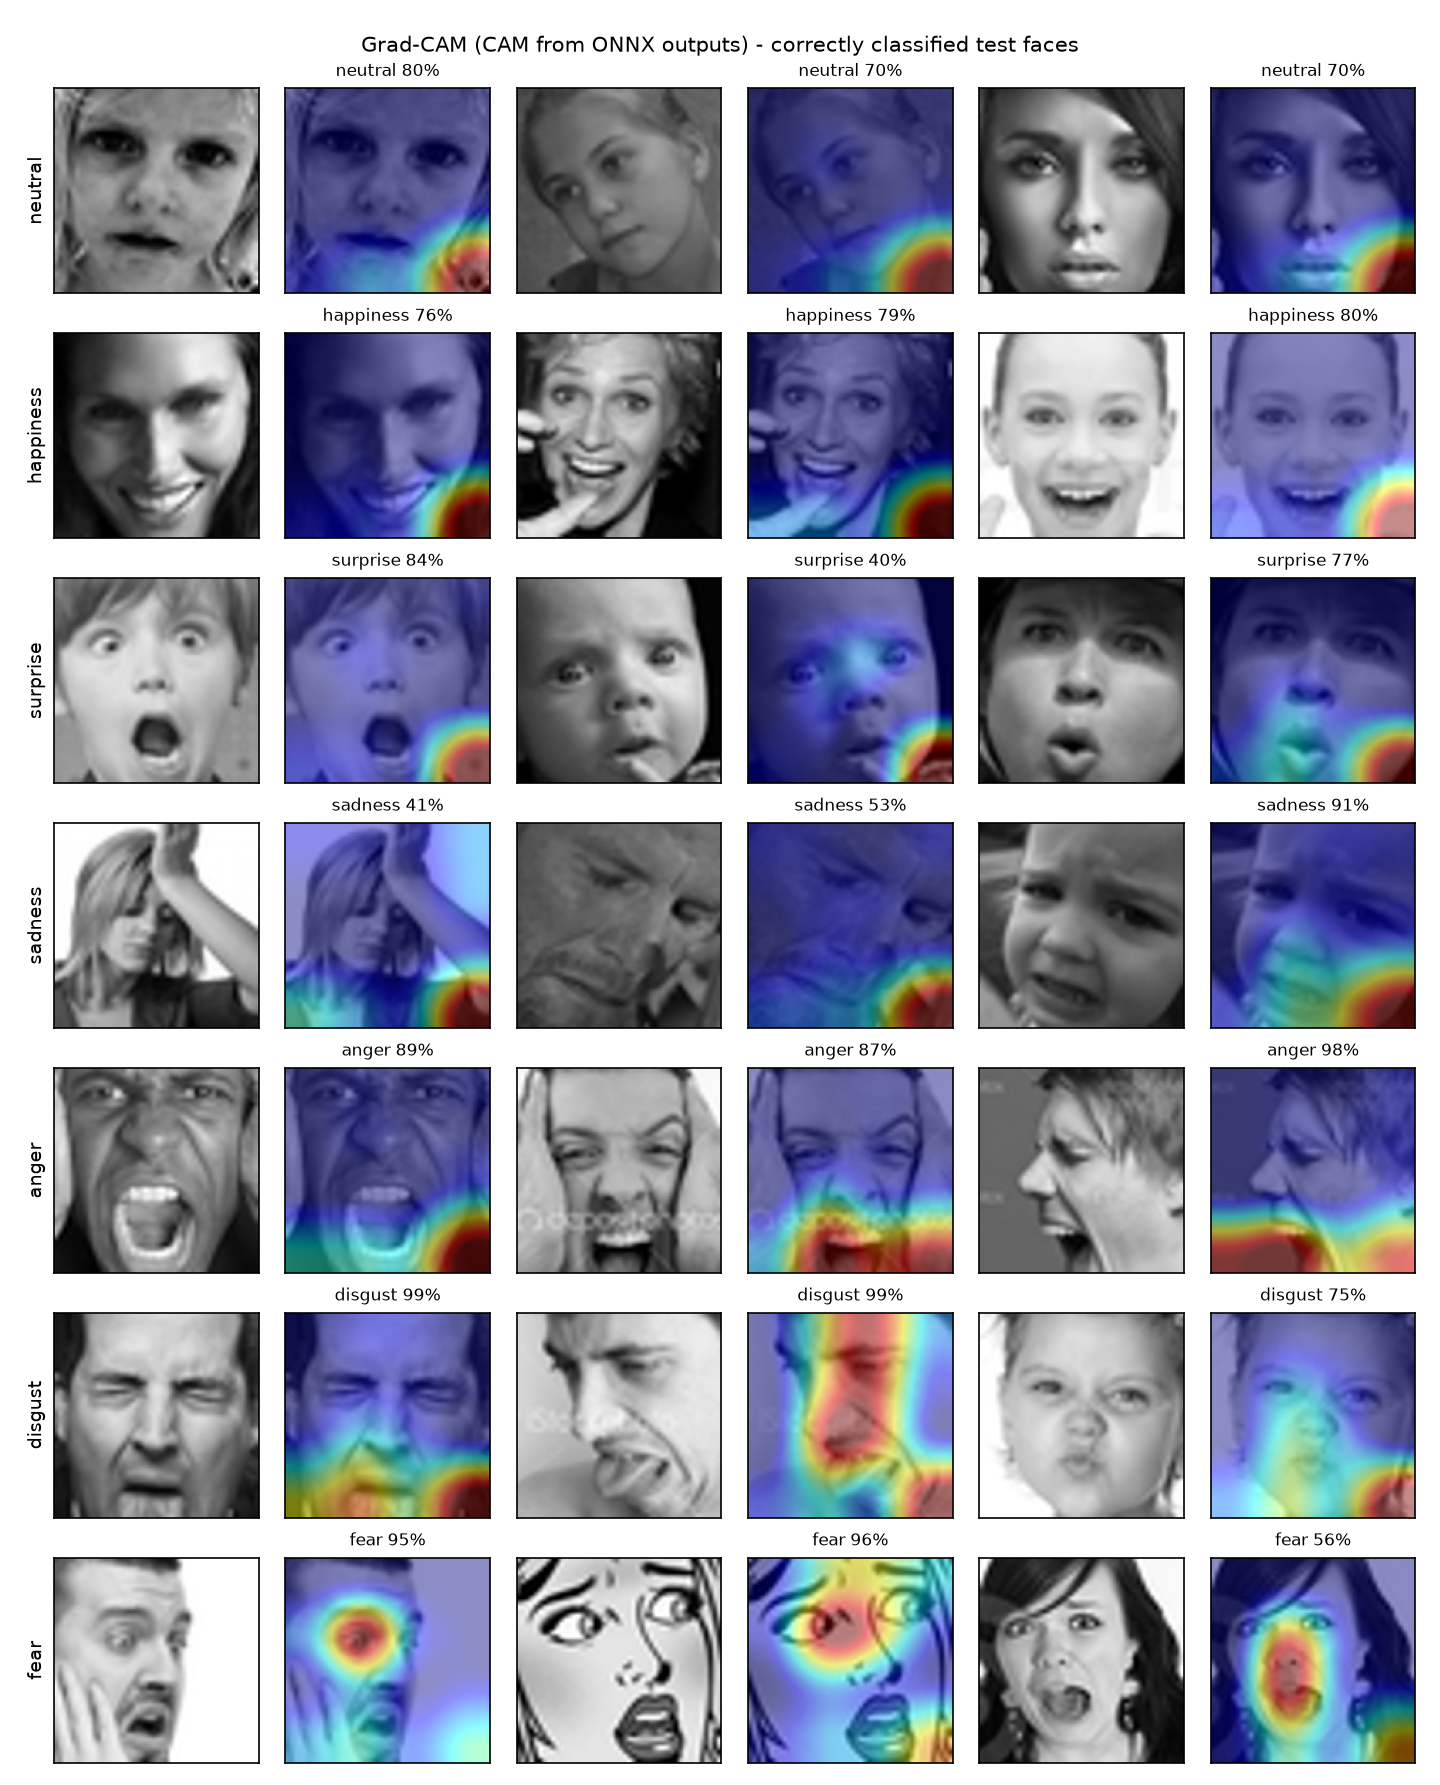
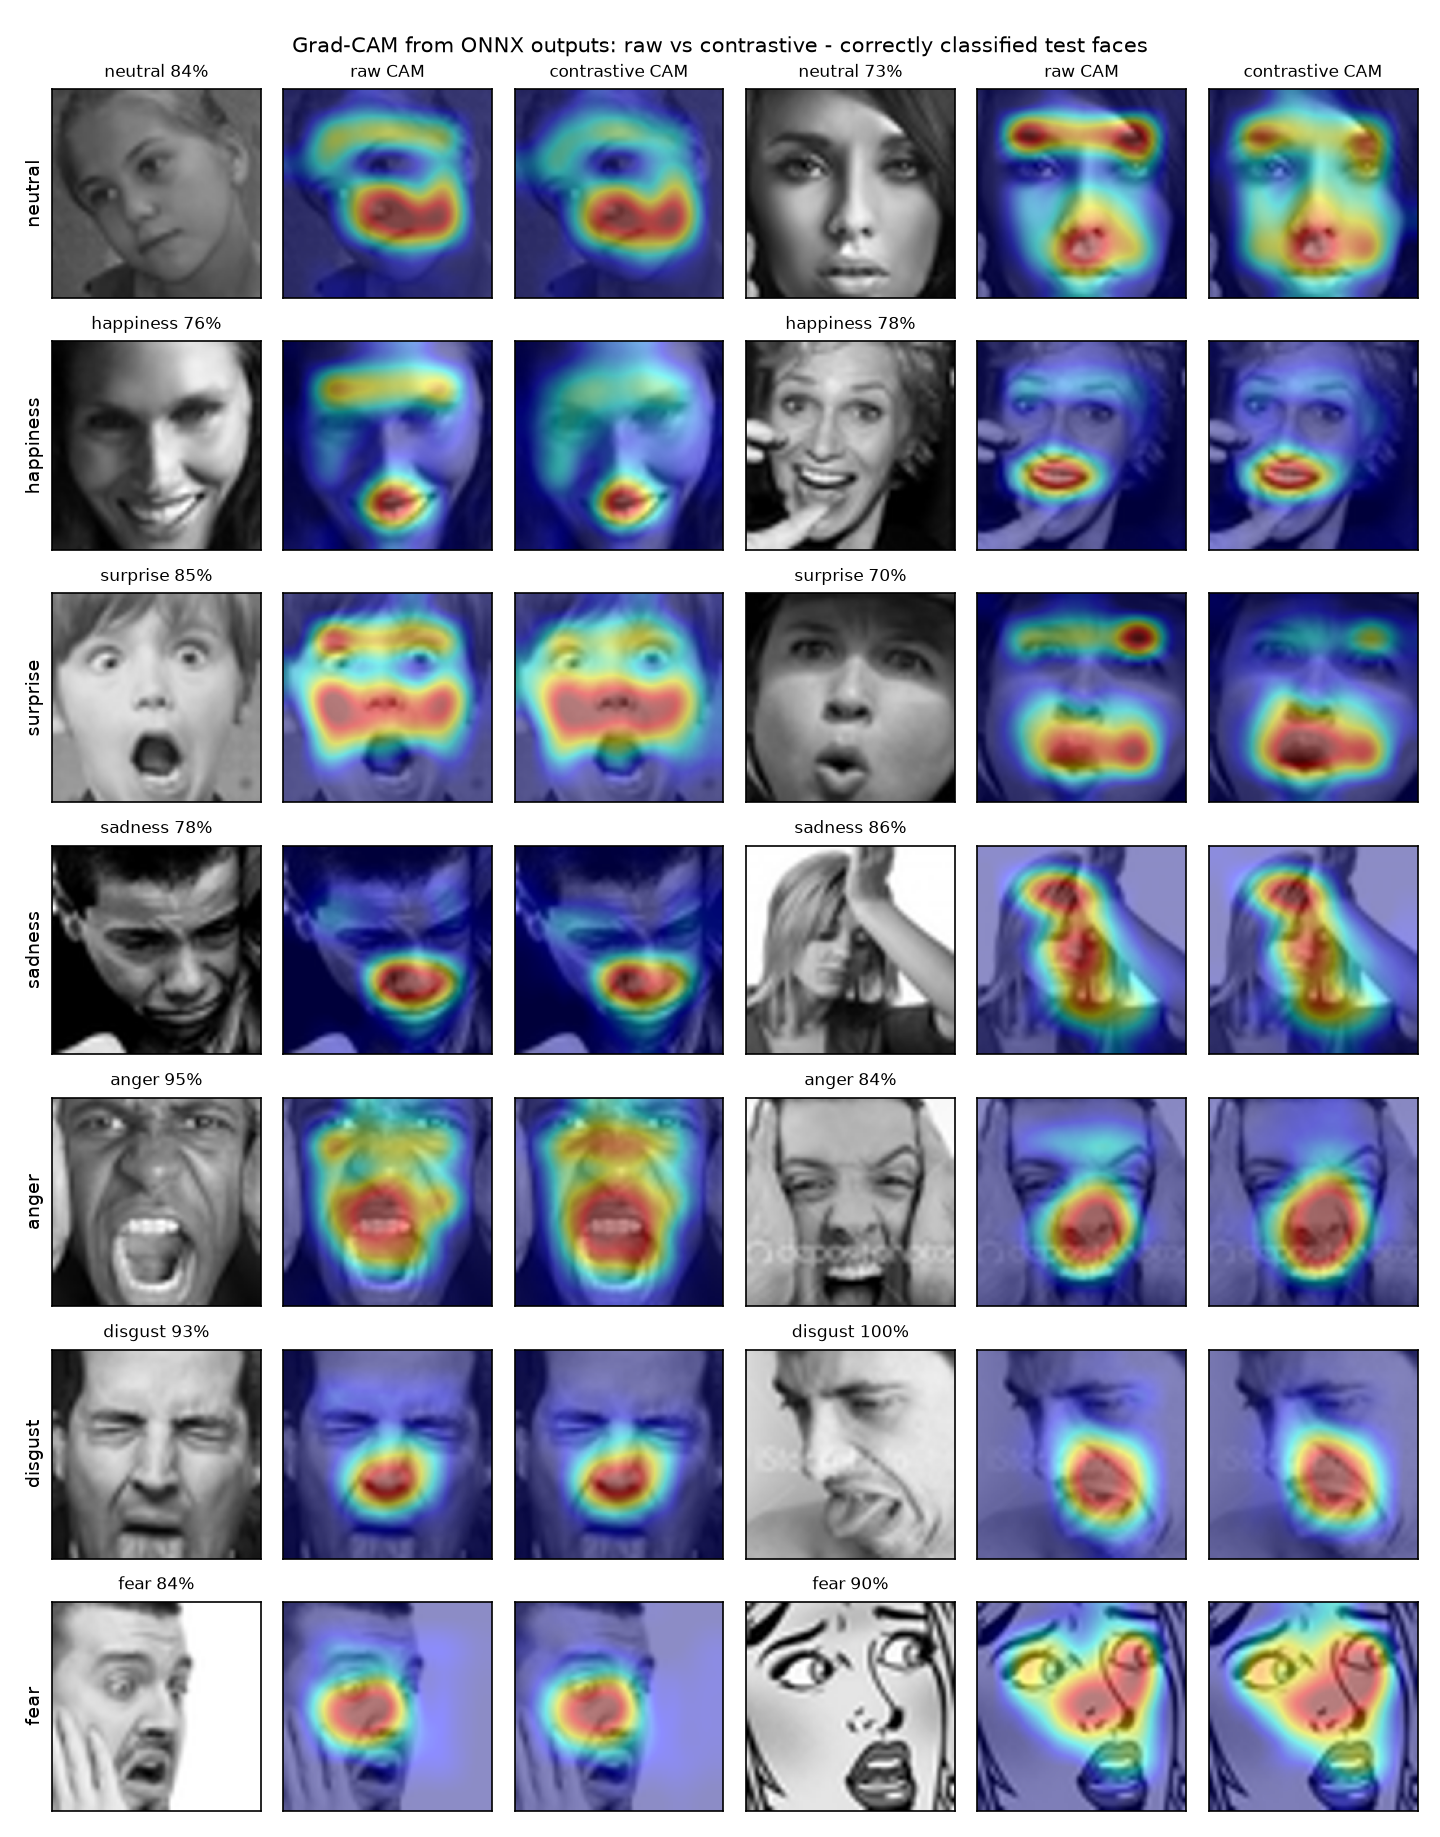
Promote EfficientNet-B0 224px as champion

diff --git a/src/explain/visualize.py b/src/explain/visualize.py
@@ -1,0 +1,79 @@
+"""DVC stage `explain`: Grad-CAM examples on the test set with the ONNX model.
+
+For each class, takes the first correctly classified test images and shows:
+face | raw CAM (logit y_c) | contrastive CAM (y_c - mean_k y_k).
+
+Output: reports/figures/gradcam_examples.png
+
+Usage:
+    python -m src.explain.visualize
+"""
+
+from __future__ import annotations
+
+import json
+from pathlib import Path
+
+import matplotlib
+
+matplotlib.use("Agg")
+import matplotlib.pyplot as plt  # noqa: E402
+import numpy as np  # noqa: E402
+import onnxruntime as ort  # noqa: E402
+import yaml  # noqa: E402
+from PIL import Image  # noqa: E402
+
+from src.data.dataset import build_transforms  # noqa: E402
+from src.explain.cam import cam_for_class, overlay  # noqa: E402
+
+PER_CLASS = 2
+COLS = 3  # face, raw, contrastive
+DISPLAY = 144
+
+
+def main() -> None:
+    params = yaml.safe_load(open("params.yaml"))
+    cfg = json.loads(Path("models/model_config.json").read_text())
+    classes = cfg["classes"]
+    tf = build_transforms(cfg["input_size"], train=False)
+    sess = ort.InferenceSession("models/emotionvision.onnx", providers=["CPUExecutionProvider"])
+    test_dir = Path(params["data"]["processed_dir"]) / "test"
+
+    fig, axes = plt.subplots(len(classes), PER_CLASS * COLS, figsize=(PER_CLASS * COLS * 1.6, len(classes) * 1.75))
+    for row, cls in enumerate(classes):
+        shown = 0
+        for img_path in sorted((test_dir / cls).glob("*.png")):
+            img = Image.open(img_path).convert("RGB")
+            logits, cams = sess.run(None, {"input": tf(img).unsqueeze(0).numpy()})
+            pred = int(logits[0].argmax())
+            if pred != row:
+                continue
+            face = np.array(img.resize((DISPLAY, DISPLAY)))
+            raw = cam_for_class(cams[0], pred, (DISPLAY, DISPLAY), mode="raw")
+            con = cam_for_class(cams[0], pred, (DISPLAY, DISPLAY), mode="contrastive")
+            p = np.exp(logits[0] - logits[0].max())
+            conf = p[pred] / p.sum()
+            c0 = shown * COLS
+            axes[row, c0].imshow(face)
+            axes[row, c0].set_title(f"{cls} {conf:.0%}", fontsize=8)
+            axes[row, c0 + 1].imshow(overlay(face, raw))
+            axes[row, c0 + 2].imshow(overlay(face, con))
+            if row == 0:
+                axes[row, c0 + 1].set_title("raw CAM", fontsize=8)
+                axes[row, c0 + 2].set_title("contrastive CAM", fontsize=8)
+            shown += 1
+            if shown == PER_CLASS:
+                break
+        axes[row, 0].set_ylabel(cls, fontsize=9)
+    for ax in axes.ravel():
+        ax.set_xticks([])
+        ax.set_yticks([])
+    plt.suptitle("Grad-CAM from ONNX outputs: raw vs contrastive - correctly classified test faces", fontsize=10)
+    plt.tight_layout()
+    Path("reports/figures").mkdir(parents=True, exist_ok=True)
+    plt.savefig("reports/figures/gradcam_examples.png", dpi=150)
+    print("[ok] reports/figures/gradcam_examples.png")
+
+
+if __name__ == "__main__":
+    main()

diff --git a/src/models/promote.py b/src/models/promote.py
@@ -1,0 +1,57 @@
+"""Promote an MLflow run to `champion` in the Model Registry.
+
+Usage:
+    python -m src.models.promote --run-name efficientnet_b0_224
+    python -m src.models.promote --run-id <run_id>
+
+Then rebuild the deployment artifacts:
+    dvc repro -f export
+    dvc repro
+"""
+
+from __future__ import annotations
+
+import argparse
+
+import mlflow
+from mlflow.tracking import MlflowClient
+
+MODEL_NAME = "emotionvision"
+
+
+def main() -> None:
+    p = argparse.ArgumentParser()
+    g = p.add_mutually_exclusive_group(required=True)
+    g.add_argument("--run-name")
+    g.add_argument("--run-id")
+    args = p.parse_args()
+
+    client = MlflowClient()
+    if args.run_name:
+        exp = client.get_experiment_by_name("emotionvision")
+        runs = client.search_runs([exp.experiment_id],
+                                  filter_string=f"attributes.run_name = '{args.run_name}'",
+                                  order_by=["attributes.start_time DESC"], max_results=1)
+        if not runs:
+            raise SystemExit(f"No run named '{args.run_name}'")
+        run = runs[0]
+    else:
+        run = client.get_run(args.run_id)
+
+    m = run.data.metrics
+    print(f"[run] {run.info.run_name} ({run.info.run_id})  val_f1={m.get('best_val_macro_f1', 0):.4f} "
+          f"test_acc={m.get('test_accuracy', 0):.4f} test_f1={m.get('test_macro_f1', 0):.4f}")
+
+    mv = mlflow.register_model(f"runs:/{run.info.run_id}/model", MODEL_NAME)
+    try:
+        client.set_registered_model_alias(MODEL_NAME, "champion", mv.version)
+    except Exception:  # registry without alias support -> tag fallback
+        for v in client.search_model_versions(f"name='{MODEL_NAME}'"):
+            if v.tags.get("role") == "champion":
+                client.delete_model_version_tag(MODEL_NAME, v.version, "role")
+        client.set_model_version_tag(MODEL_NAME, mv.version, "role", "champion")
+    print(f"[ok] {MODEL_NAME} v{mv.version} is now 'champion'")
+
+
+if __name__ == "__main__":
+    main()

diff --git a/src/explain/cam.py b/src/explain/cam.py
@@ -1,0 +1,41 @@
+"""Class Activation Maps from the ONNX model outputs (no gradients needed).
+
+For a network ending with Global Average Pooling + Linear, Grad-CAM reduces to CAM:
+    Grad-CAM weights  a_k^c = mean(dy_c / dA_k) = W[c, k] / (H*W)
+so  Grad-CAM_c = ReLU(sum_k W[c,k] * A_k) / (H*W)  ==  CAM_c up to a constant.
+The exported ONNX graph therefore returns the CAMs of all classes directly.
+"""
+
+from __future__ import annotations
+
+import cv2
+import numpy as np
+
+
+def normalize_cam(cam: np.ndarray) -> np.ndarray:
+    cam = np.maximum(cam, 0)
+    rng = cam.max() - cam.min()
+    return (cam - cam.min()) / rng if rng > 1e-8 else np.zeros_like(cam)
+
+
+def cam_for_class(cams: np.ndarray, class_idx: int, size: tuple[int, int],
+                  mode: str = "contrastive") -> np.ndarray:
+    """cams: (n_classes, h, w) from the ONNX output -> normalized (H, W) heatmap in [0, 1].
+
+    mode="raw"         : CAM of the class logit y_c (classic CAM / Grad-CAM).
+    mode="contrastive" : CAM of (y_c - mean_k y_k). Softmax ignores anything shared by all
+                         logits, so regions that raise every class equally (e.g. border /
+                         padding activations of the 4x4 map) cancel out and only the
+                         class-discriminative regions remain.
+    """
+    cams = cams.astype(np.float32)
+    cam = cams[class_idx] - cams.mean(axis=0) if mode == "contrastive" else cams[class_idx]
+    cam = normalize_cam(cam)
+    return cv2.resize(cam, (size[1], size[0]), interpolation=cv2.INTER_CUBIC).clip(0, 1)
+
+
+def overlay(image_rgb: np.ndarray, heatmap: np.ndarray, alpha: float = 0.45) -> np.ndarray:
+    """image_rgb: (H, W, 3) uint8, heatmap: (H, W) in [0, 1] -> blended uint8 RGB image."""
+    colored = cv2.applyColorMap((heatmap * 255).astype(np.uint8), cv2.COLORMAP_JET)
+    colored = cv2.cvtColor(colored, cv2.COLOR_BGR2RGB)
+    return cv2.addWeighted(image_rgb, 1 - alpha, colored, alpha, 0)

diff --git a/src/models/benchmark.py b/src/models/benchmark.py
@@ -87,9 +87,13 @@ def end_nodes(model_path: Path) -> list[str]:
 def quantize_int8(val_ds, val_loader, seed: int, n_calib: int = 512) -> tuple[str, dict]:
     pre = MODELS_DIR / "_pre.onnx"
     quant_pre_process(str(FP32_PATH), str(pre))
-    batches = calibration_batches(val_ds, n_calib, seed)
-    # Histogram methods keep every activation in RAM: use a smaller calibration set
-    small = calibration_batches(val_ds, 128, seed, bs=16)
+    # Calibration keeps activations in RAM: scale the number of images with the input
+    # resolution (112 px -> 512 / 128 images, 224 px -> 128 / 32 images).
+    s = val_ds[0][0].shape[-1]
+    scale = (112 / s) ** 2
+    batches = calibration_batches(val_ds, max(int(n_calib * scale), 64), seed, bs=16)
+    small = calibration_batches(val_ds, max(int(128 * scale), 32), seed, bs=8)
+    print(f"  calibration images: minmax={sum(len(b) for b in batches)} histogram={sum(len(b) for b in small)}")
     ablation, best_name, best_f1 = {}, None, -1.0
     for name, c in QUANT_CONFIGS.items():
         out = MODELS_DIR / f"_q_{name}.onnx"
@@ -142,7 +146,7 @@ def main() -> None:
     cfg = json.loads((MODELS_DIR / "model_config.json").read_text())
     s, classes = cfg["input_size"], cfg["classes"]
 
-    loaders, dsets = build_loaders(params["data"]["processed_dir"], classes, s, batch_size=64, num_workers=0)
+    loaders, dsets = build_loaders(params["data"]["processed_dir"], classes, s, batch_size=16, num_workers=0)
     print("[quantize] static INT8: comparing calibration configs on the validation set...")
     best_cfg, ablation = quantize_int8(dsets["val"], loaders["val"], params["seed"])
 

diff --git a/src/models/export_onnx.py b/src/models/export_onnx.py
@@ -112,7 +112,9 @@ def export(opset: int) -> None:
         so = ort.SessionOptions()
         so.graph_optimization_level = level
         sess = ort.InferenceSession(str(ONNX_PATH), so, providers=["CPUExecutionProvider"])
-        return sess.run(None, {"input": x})
+        # small chunks: at 224 px the un-optimized graph needs large buffers (low-RAM PCs)
+        outs = [sess.run(None, {"input": x[i:i + 8]}) for i in range(0, len(x), 8)]
+        return np.concatenate([o[0] for o in outs]), np.concatenate([o[1] for o in outs])
 
     o_logits, o_cams = run(ort.GraphOptimizationLevel.ORT_ENABLE_ALL)
     n_logits, _ = run(ort.GraphOptimizationLevel.ORT_DISABLE_ALL)

diff --git a/reports/benchmark.md b/reports/benchmark.md
@@ -1,16 +1,16 @@
-CPU benchmark (efficientnet_b0, input 112x112)
+CPU benchmark (efficientnet_b0, input 224x224)
 
 | variant | size_mb | test_accuracy | test_macro_f1 | latency_ms_p50 | latency_ms_p95 | throughput_img_s | speedup_vs_pytorch |
 |---|---|---|---|---|---|---|---|
-| pytorch_fp32 | 16.37 | 0.8559 | 0.7819 | 30.08 | 33.37 | 117.9 | 1.0 |
-| onnx_fp32 | 16.04 | 0.8559 | 0.7819 | 3.59 | 4.39 | 342.5 | 7.82 |
-| onnx_int8 | 4.78 | 0.8349 | 0.7334 | 5.42 | 9.05 | 260.4 | 4.85 |
+| pytorch_fp32 | 16.37 | 0.8652 | 0.7673 | 146.6 | 203.32 | 22.1 | 1.0 |
+| onnx_fp32 | 16.04 | 0.8652 | 0.7673 | 22.64 | 42.05 | 72.1 | 6.08 |
+| onnx_int8 | 4.78 | 0.7985 | 0.6812 | 25.71 | 42.46 | 42.3 | 6.17 |
 
 INT8 quantization ablation (validation set, kept: percentile_conv_x)
 
 | INT8 config | val_accuracy | val_macro_f1 |
 |---|---|---|
-| minmax_all | 0.785 | 0.6748 |
-| minmax_conv | 0.7944 | 0.6917 |
-| percentile_conv | 0.818 | 0.7245 |
-| percentile_conv_x | 0.8475 | 0.769 |
+| minmax_all | 0.7753 | 0.6554 |
+| minmax_conv | 0.7809 | 0.6558 |
+| percentile_conv | 0.7734 | 0.6672 |
+| percentile_conv_x | 0.8145 | 0.7246 |
